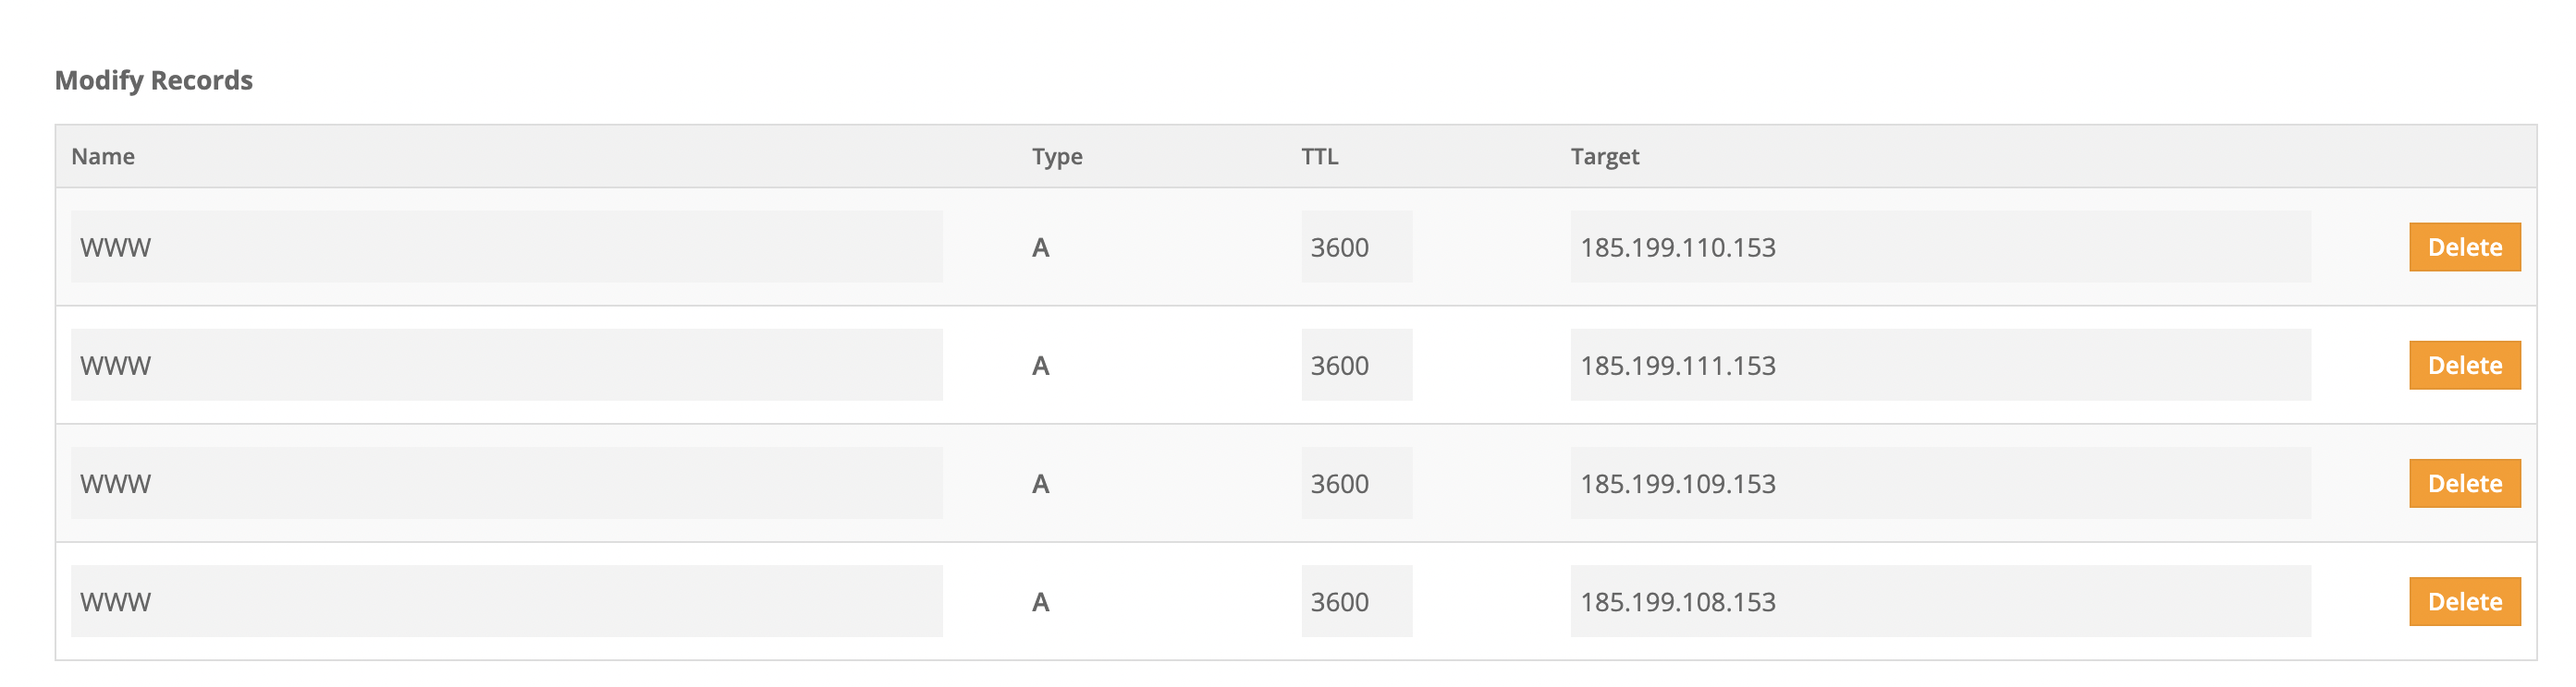
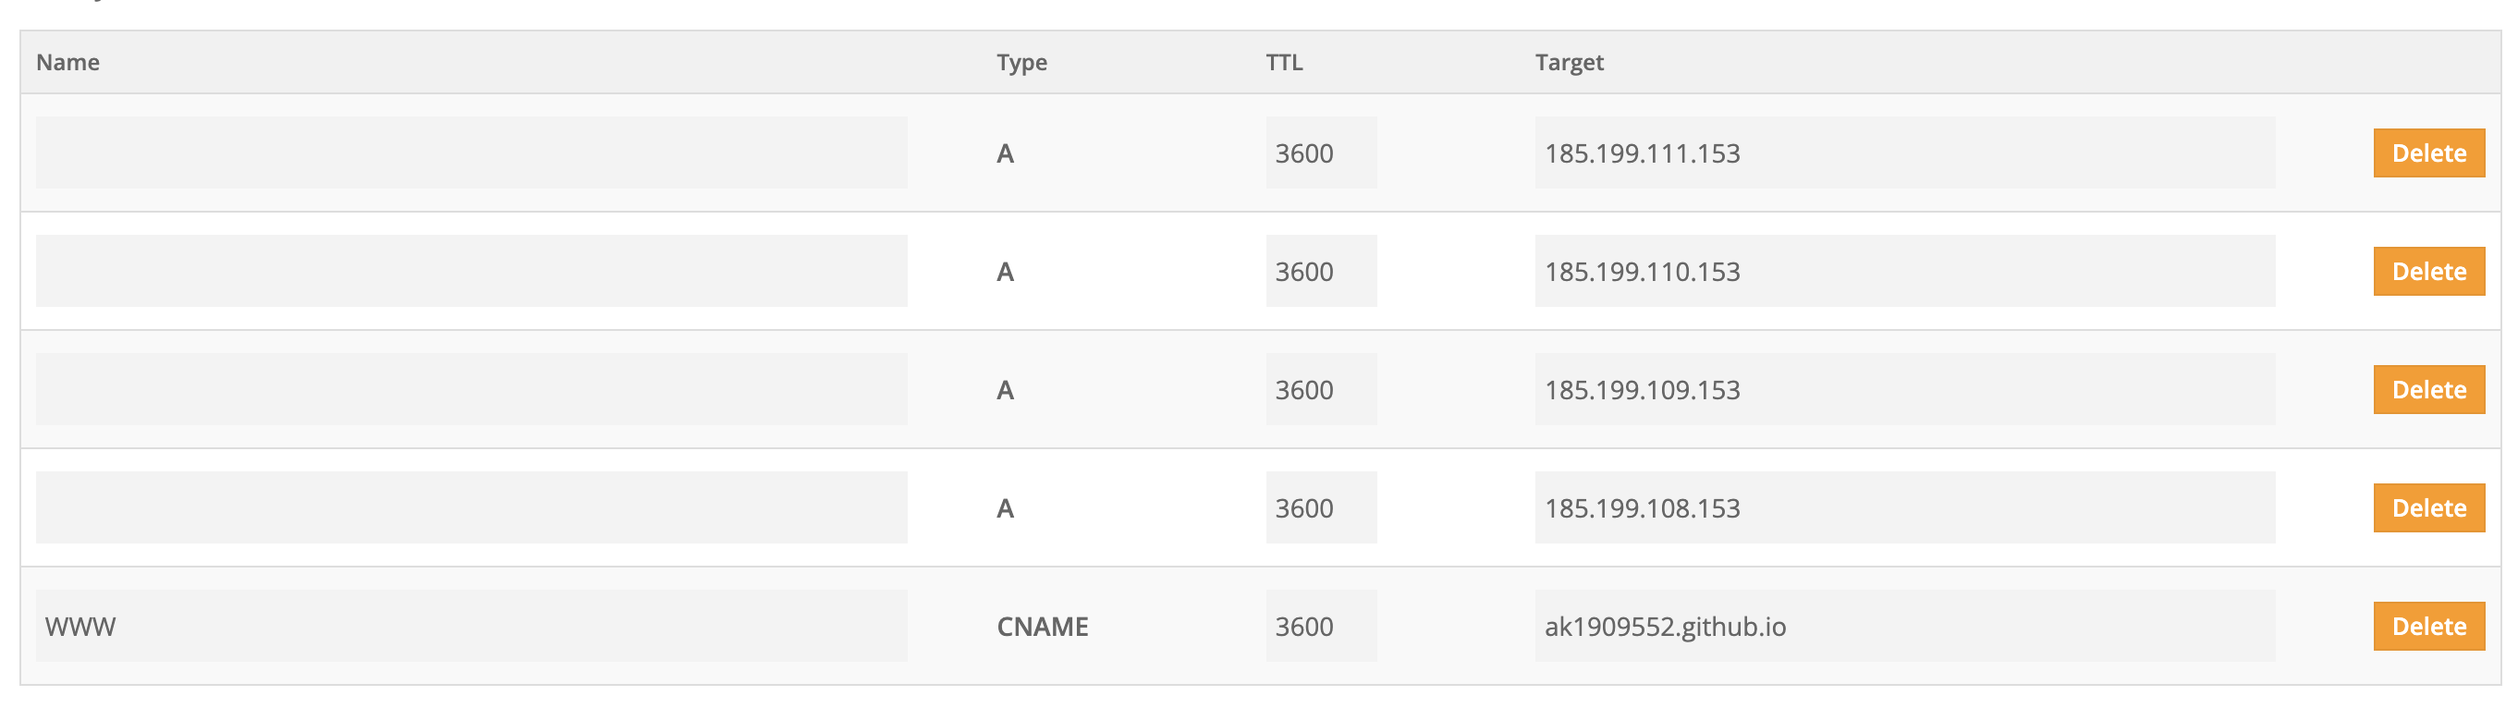
fixed README, improved custom-domain

diff --git a/posts/2022/05/how-to-custom-domain/index.html b/posts/2022/05/how-to-custom-domain/index.html
@@ -5,7 +5,7 @@
 <meta http-equiv="X-UA-Compatible" content="ie=edge">
 <meta name="viewport" content="width=device-width, initial-scale=1, shrink-to-fit=no">
 <meta name="author" content="Abhigyan Kishor ">
-<meta name="description" content="So you want a custom domain name? Here is a step-by-step guide to how to get one (for free) from freenom. I use github pages to host my website so the tutorial will focus on the relevant steps.
+<meta name="description" content="So you want a custom domain name? Here is a step-by-step guide to how to get one (for free) from freenom. I use github pages to host my hugo website so the tutorial will focus on the relevant steps.
   Check availability of a domain name   In the search bar, type out the site name that you want, say example.com. It should give you a few alternatives such as shown in the picture." />
 <meta name="keywords" content=", tutorial" />
 <meta name="robots" content="noodp" />
@@ -40,23 +40,23 @@
 
 
 <meta itemprop="name" content="How to Custom Domain">
-<meta itemprop="description" content="So you want a custom domain name? Here is a step-by-step guide to how to get one (for free) from freenom. I use github pages to host my website so the tutorial will focus on the relevant steps.
+<meta itemprop="description" content="So you want a custom domain name? Here is a step-by-step guide to how to get one (for free) from freenom. I use github pages to host my hugo website so the tutorial will focus on the relevant steps.
   Check availability of a domain name   In the search bar, type out the site name that you want, say example.com. It should give you a few alternatives such as shown in the picture."><meta itemprop="datePublished" content="2022-05-06T20:43:37+03:00" />
 <meta itemprop="dateModified" content="2022-05-06T20:43:37+03:00" />
-<meta itemprop="wordCount" content="288"><meta itemprop="image" content="https://www.abhigyankishor.ga"/>
+<meta itemprop="wordCount" content="328"><meta itemprop="image" content="https://www.abhigyankishor.ga"/>
 <meta itemprop="keywords" content="tutorial," />
 <meta name="twitter:card" content="summary_large_image"/>
 <meta name="twitter:image" content="https://www.abhigyankishor.ga"/>
 
 <meta name="twitter:title" content="How to Custom Domain"/>
-<meta name="twitter:description" content="So you want a custom domain name? Here is a step-by-step guide to how to get one (for free) from freenom. I use github pages to host my website so the tutorial will focus on the relevant steps.
+<meta name="twitter:description" content="So you want a custom domain name? Here is a step-by-step guide to how to get one (for free) from freenom. I use github pages to host my hugo website so the tutorial will focus on the relevant steps.
   Check availability of a domain name   In the search bar, type out the site name that you want, say example.com. It should give you a few alternatives such as shown in the picture."/>
 
 
 
 
     <meta property="og:title" content="How to Custom Domain" />
-<meta property="og:description" content="So you want a custom domain name? Here is a step-by-step guide to how to get one (for free) from freenom. I use github pages to host my website so the tutorial will focus on the relevant steps.
+<meta property="og:description" content="So you want a custom domain name? Here is a step-by-step guide to how to get one (for free) from freenom. I use github pages to host my hugo website so the tutorial will focus on the relevant steps.
   Check availability of a domain name   In the search bar, type out the site name that you want, say example.com. It should give you a few alternatives such as shown in the picture." />
 <meta property="og:type" content="article" />
 <meta property="og:url" content="https://www.abhigyankishor.ga/posts/2022/05/how-to-custom-domain/" /><meta property="og:image" content="https://www.abhigyankishor.ga"/><meta property="article:section" content="posts" />
@@ -147,12 +147,30 @@
       
 
       
+        <hr />
+        <aside id="toc">
+          <div class="toc-title">Table of Contents</div>
+          <nav id="TableOfContents">
+  <ul>
+    <li><a href="#so-you-want-a-custom-domain-name">So you want a custom domain name?</a>
+      <ul>
+        <li><a href="#check-availability-of-a-domain-name">Check availability of a domain name</a></li>
+        <li><a href="#alias-records-in-your-dns-provider">Alias records in your DNS provider</a></li>
+        <li><a href="#add-cname-file-in-github">Add CNAME file in github</a></li>
+        <li><a href="#edit-configtoml-baseurl">Edit config.toml baseURL</a></li>
+        <li><a href="#wait">Wait!</a></li>
+      </ul>
+    </li>
+  </ul>
+</nav>
+        </aside>
+        <hr />
 
       
 
       <div class="post-content">
         <h2 id="so-you-want-a-custom-domain-name">So you want a custom domain name?</h2>
-<p>Here is a step-by-step guide to how to get one (for free) from <a href="https://www.freenom.com/en/index.html?lang=en">freenom</a>. I use github pages to host my website so the tutorial will focus on the relevant steps.</p>
+<p>Here is a step-by-step guide to how to get one (for free) from <a href="https://www.freenom.com/en/index.html?lang=en">freenom</a>. I use <strong>github pages</strong> to host my <strong>hugo</strong> website so the tutorial will focus on the relevant steps.</p>
 <ol>
 <li>
 <h3 id="check-availability-of-a-domain-name">Check availability of a domain name</h3>
@@ -162,24 +180,31 @@
 <p><strong><em>NOTE:</em></strong> Sometimes, you may get an error when you hit <code>Get it now!</code> which says <code>not available</code>. Don&rsquo;t worry, just search again with the same domain name but with the exact extension that you wanted. So if the alternative was <code>example.ga</code> search again with <code>example.ga</code>. The problem should be resolved :)</p>
 <ol start="2">
 <li>
-<h3 id="add-cname-file-in-github">Add CNAME file in github</h3>
-</li>
-</ol>
-<p>In the <code>settings</code> of your github repo, in the <code>code and automation</code> submenu, go to <code>pages</code>. Put your recently acquired domain name under <code>Custom domain</code>. (I have yet to figure out how to get an SSL certificate :&rsquo;) ).</p>
-<p><img src="https://www.abhigyankishor.ga/custom-domain-name/githubpages.png" alt="GitHub pages records"></p>
-<ol start="3">
-<li>
 <h3 id="alias-records-in-your-dns-provider">Alias records in your DNS provider</h3>
 </li>
 </ol>
-<p>Go back to freenom. Under <code>Services</code> dropdown, go to <code>My domains</code> and select <code>manage domain</code>. You must provide an alias record for your github website. Go to <a href="https://docs.github.com/en/pages/configuring-a-custom-domain-for-your-github-pages-site/managing-a-custom-domain-for-your-github-pages-site">GitHub pages documentation</a> to find the ip addresses that correspond to your GitHub page domain name. In my case they are:</p>
+<p>In freenom, under <code>Services</code> dropdown, go to <code>My domains</code> and select <code>manage domain</code>. You must provide an alias record for your github website. Go to <a href="https://docs.github.com/en/pages/configuring-a-custom-domain-for-your-github-pages-site/managing-a-custom-domain-for-your-github-pages-site">GitHub pages documentation</a> to find the ip addresses that correspond to your GitHub page domain name. In my case they are:</p>
 <pre tabindex="0"><code>185.199.108.153
 185.199.109.153
 185.199.110.153
 185.199.111.153
 </code></pre><p>Navigate to <code>manage freenom DNS</code> and enter this information in the prompt as follows:
 <img src="https://www.abhigyankishor.ga/custom-domain-name/dnsentries.png" alt="DNS records"></p>
+<p>Notice the last <code>CNAME</code> entry. This entry should point to your original user site. Make sure it is of the format <code>&lt;user&gt;.github.io</code>.</p>
+<ol start="3">
+<li>
+<h3 id="add-cname-file-in-github">Add CNAME file in github</h3>
+</li>
+</ol>
+<p>In the <code>settings</code> of your github repo, in the <code>code and automation</code> submenu, go to <code>pages</code>. Put your recently acquired domain name under <code>Custom domain</code>. (If the previous steps work, you can also enable <code>enfore HTTPS</code>).</p>
+<p><img src="https://www.abhigyankishor.ga/custom-domain-name/githubpages.png" alt="GitHub pages records"></p>
 <ol start="4">
+<li>
+<h3 id="edit-configtoml-baseurl">Edit config.toml baseURL</h3>
+</li>
+</ol>
+<p>Go to <code>config.toml</code> and change <code>baseURL</code> to your new custom domain name. Build the website, push the changes and&hellip;</p>
+<ol start="5">
 <li>
 <h3 id="wait">Wait!</h3>
 </li>
@@ -210,7 +235,7 @@
           <line x1="16" y1="17" x2="8" y2="17"></line>
           <polyline points="10 9 9 9 8 9"></polyline>
         </svg>
-        288 Words
+        328 Words
       </p>
 
       <p>

diff --git a/README.md b/README.md
@@ -8,8 +8,8 @@ Personal blog/site wip :)
   * This kinda works, depending on your OS settings
   * Need to add a button tho?
 * [x] ~~custom URL~~
-  * Go to [abhigyankishor.ga](www.abhigyankishor.ga)
-  * Go to [this]() blog post to see how I did it :)
+  * Go to [abhigyankishor.ga](https://www.abhigyankishor.ga)
+  * Go to [this](https://www.abhigyankishor.ga/posts/2022/05/how-to-custom-domain/) blog post to see how I did it :)
 * [ ] Improve about.. add projects and such
 * [ ] Heading font size.. kinda small :(
 * [ ] figure out emojis :)
